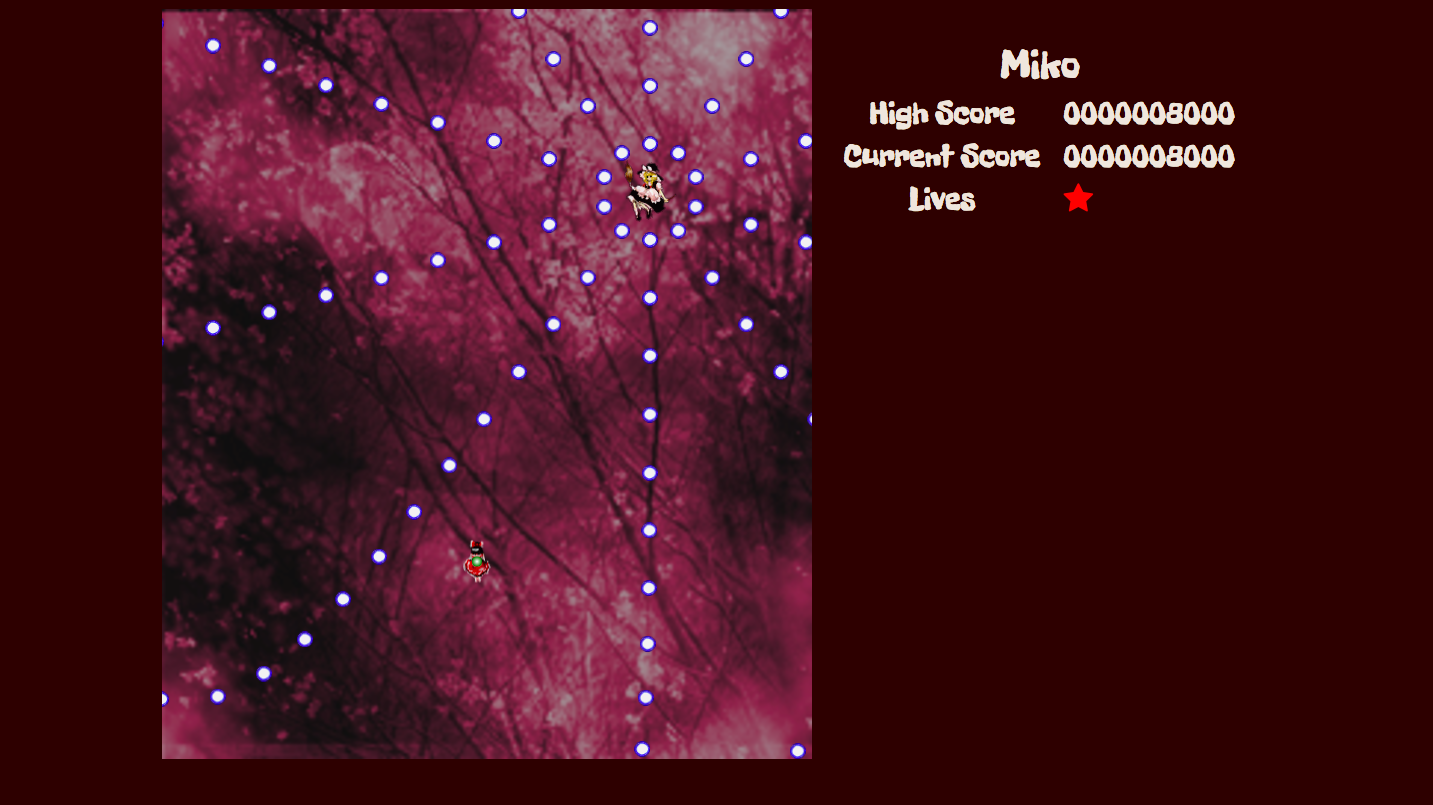
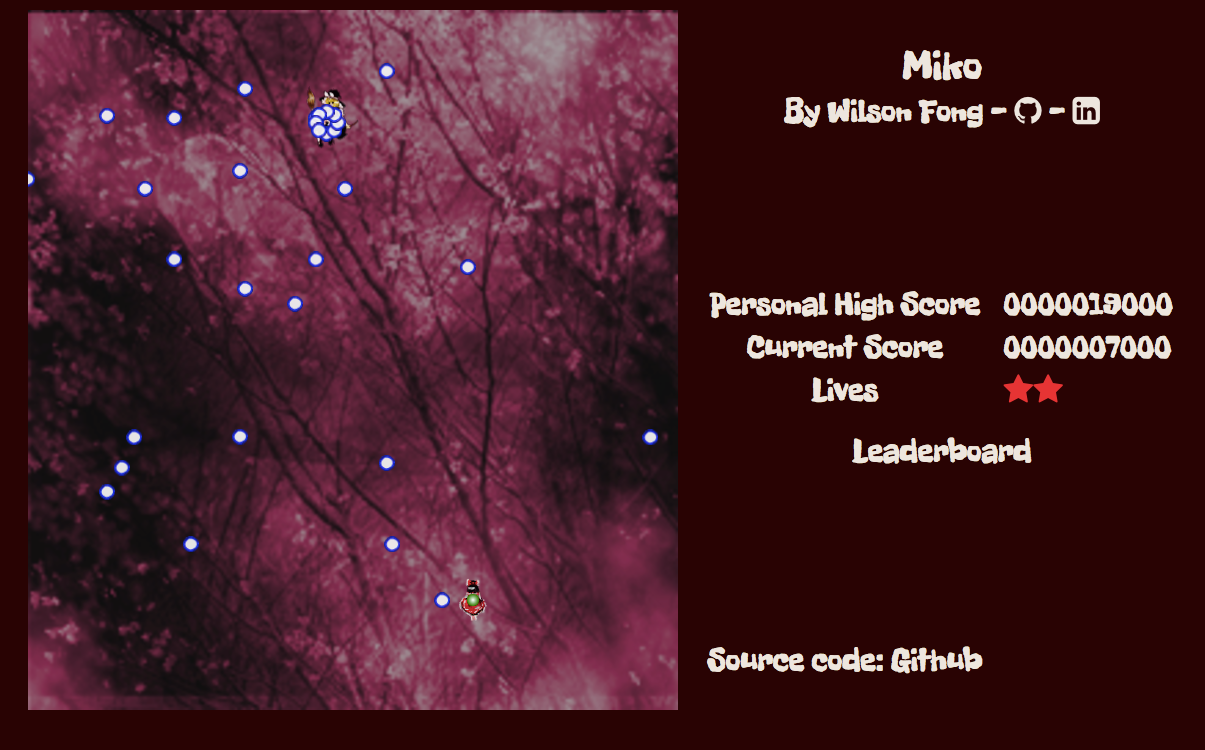
Update README

diff --git a/README.md b/README.md
@@ -84,26 +84,47 @@ _setMovementKeyPress(e) {
 }
 ```
 
-### High Score
+### High Scores
+
+A global leaderboard of the top ten scores is stored using Google
+Firebase's [Realtime Database API](https://firebase.google.com/docs/database/).
+Database interactions are located in the `database.js` library file.
+The app keeps its leaderboard in sync using Firebase's `on` method to
+subscribe to leaderboard changes. Updates to the leaderboard rely on
+Firebase's `transaction` method to prevent corruption by concurrent
+leaderboard updates.
+
+```javascript
+getLeaderboard() {
+  firebase.database().ref('/scores/easy').on('value', (snapshot) => {
+    const highScores = snapshot.val();
+    this.highScores = highScores;
+    updateLeaderboard(highScores);
+  });
+},
+updateLeaderboard(scoreObj) {
+  firebase.database().ref('/scores/easy').transaction((scores) => {
+    if (scores) {
+      for (let i = 0; i < scores.length; i++) {
+        if (scoreObj.score > scores[i].score) {
+          const tempScoreObj = scores[i];
+          scores[i] = scoreObj;
+          scoreObj = tempScoreObj;
+        }
+      }
+    }
+    return scores;
+  });
+}
+```
 
 The user's personal high score is stored under the `high_score` key
 using Web API's local storage, so the high score is persisted across
 browser sessions until local storage is cleared.
 
-```javascript
-getHighScore() {
-  const highScore = localStorage.getItem('high_score') || 0;
-  this._updateHighScoreElement(highScore);
-}
-
-setHighScore() {
-  localStorage.setItem('high_score', this.board.currentScore);
-}
-```
-
 ## Future Features
 
-- [ ] Global leaderboard
+- [x] Global leaderboard
 - [ ] Multiple difficulty levels
 - [ ] Additional bullet patterns
 - [ ] Additional enemy patterns
